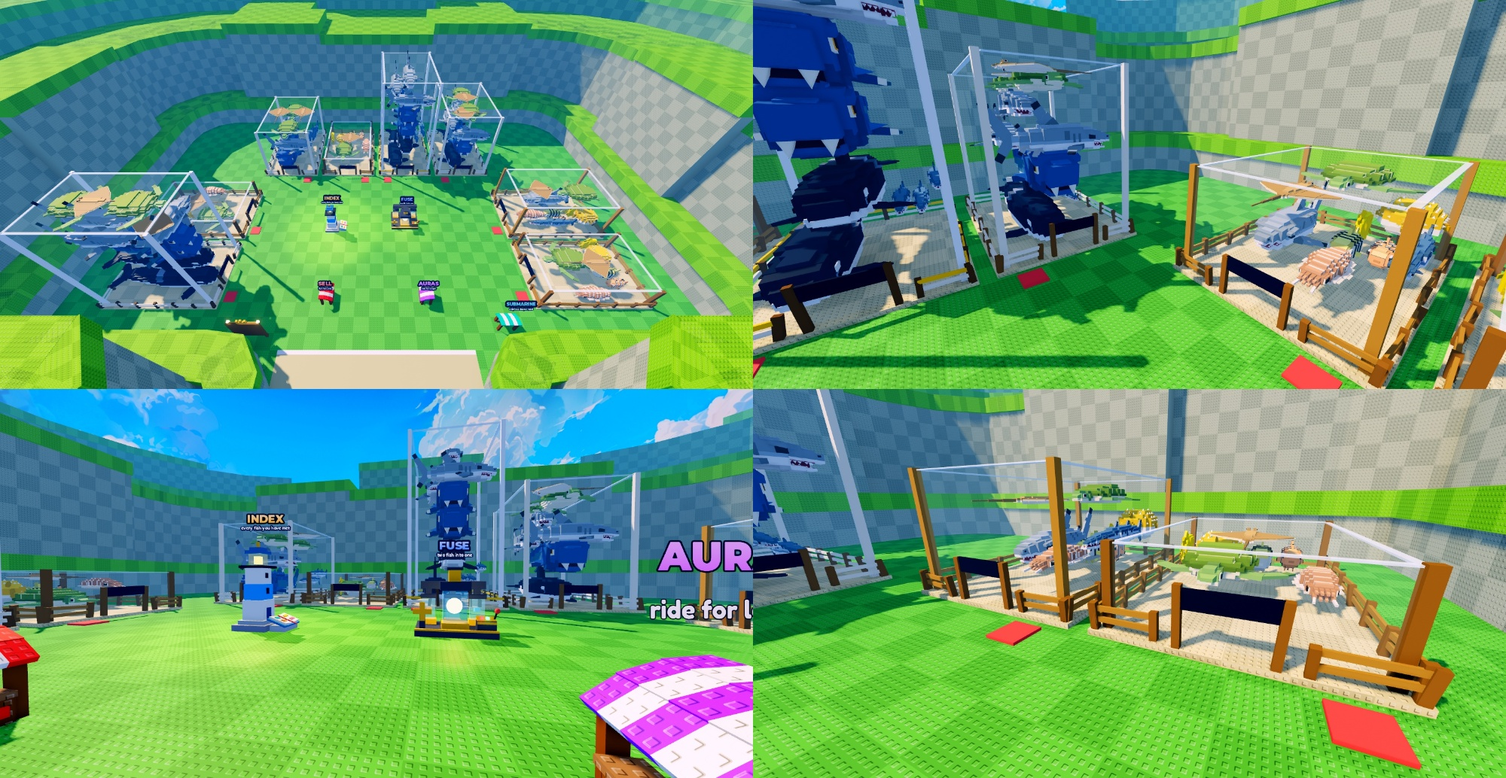
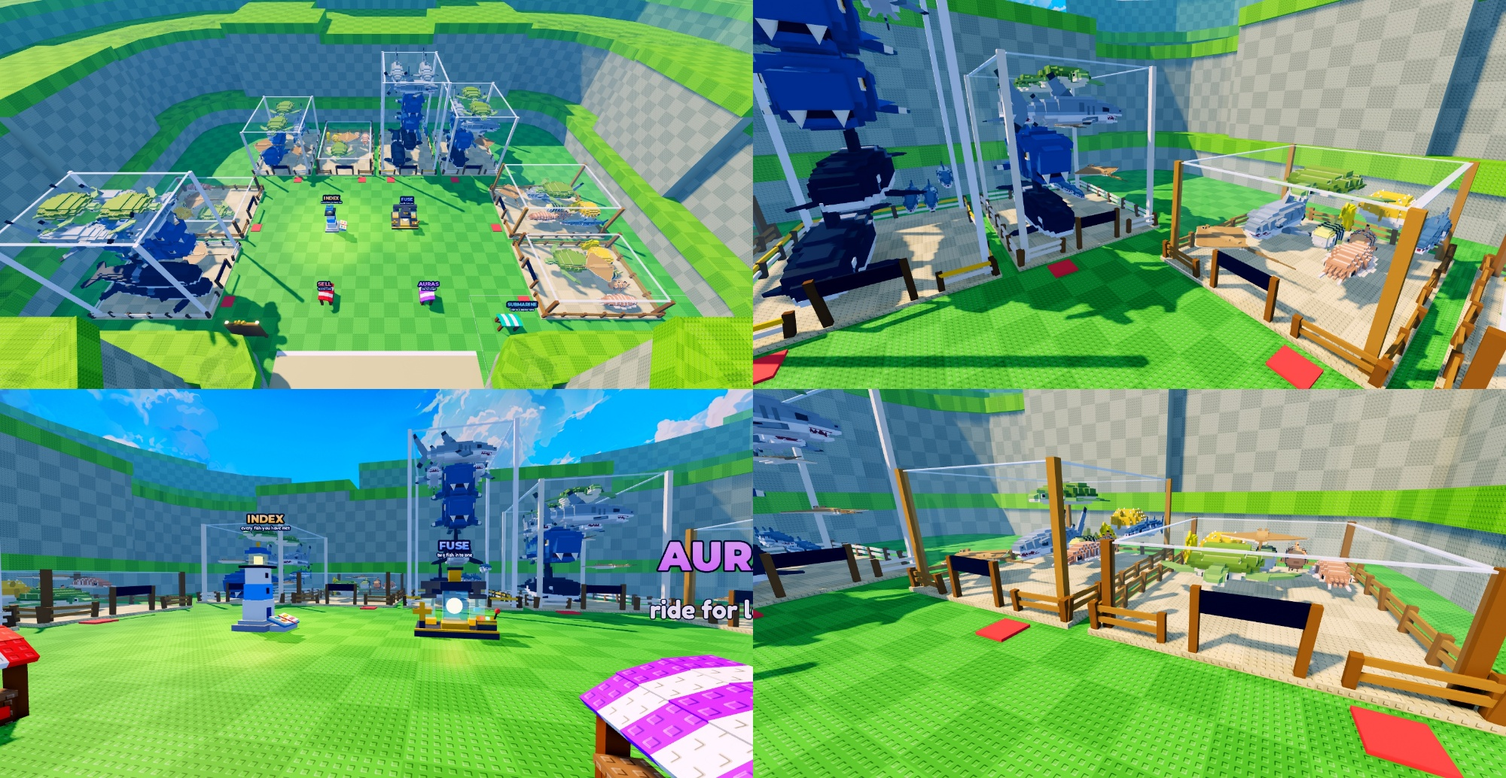
The hub try's pens are 47 wide (the user's pick); reloaded in Studio, not saved

diff --git a/tools/map/hub_scale_plan.py b/tools/map/hub_scale_plan.py
@@ -2,7 +2,7 @@
 wrong, whether it's in the actual scale of the hub or the texture, or it's just the walk speed"). Three plans:
 ours as it stands (read from the place: art/map/hub_study/dump_2026-11-22.csv), the reference's (measured from our
 frames: docs/reference/ride-a-dino-map.md, "The hub, measured", good to about 15%), and S, ours at the reference's
-own size (the open floor 174 by 130; theirs is about 174 by 126) with eight pens (42 by 62 plate to plate, a little apart, in a U), checked: see
+own size (the open floor 174 by 130; theirs is about 174 by 126) with eight pens (47 by 62 plate to plate, a little apart, in a U), checked: see
 check() and tools/map/hub_s.py (the walls). Schematic: walls as a line, pens as boxes.
 
 usage: python tools/map/hub_scale_plan.py [out.png]"""
@@ -135,7 +135,7 @@ def check(name, hub, strip, pens, things, gates):
 # a far one, and the pens stand apart, each with its own fence, 2.3 to 3.2 of grass between (full 21 s, run 39 s)
 SZ = -10.0
 SIDE, BEHIND = 87, (25, 21)
-PW, APART = 40, 6  # a pen's plate and posts stand 1 outside its box: 42 wide and 4 of grass between, as seen
+PW, APART = 45, 6  # plate and posts stand 1 outside the box: 47 wide (the user's pick, 2026-11-23; theirs 41) and 4 of grass between
 HALF, BACK = SIDE + 60 + BEHIND[0], -(222 + BEHIND[1] + 1)
 STEP = PW + APART
 BACK_AT, SIDE_AT = [-1.5 * STEP, -0.5 * STEP, 0.5 * STEP, 1.5 * STEP], [-96 - STEP / 2, -96 + STEP / 2]  # the pens' middles
@@ -155,7 +155,7 @@ s_things += [(x - math.copysign(14, x), -146 + SZ, PAD_SIZE, PAD_SIZE, "", PAD) 
 s_things += [(x, z + 14, PAD_SIZE, PAD_SIZE, "", PAD) for x in (-SIDE + 6, SIDE - 6) for z in SIDE_AT]
 S_TRY = {"HUB_HALF": HALF, "HUB_BACK": BACK, "CORNER": 32, "FRONT_TURN": 8, "GATE_TURN": 17}
 assert not check("S", (-HALF, HALF, BACK, 0), (-48, 48, -32, 0), s_pens, s_things, s_gates)
-r = panel(f"S (a sketch): {2 * HALF} x {-32 - BACK}, eight pens 42 x 62",
+r = panel(f"S (a sketch): {2 * HALF} x {-32 - BACK}, eight pens 47 x 62",
           "back gates to the strip 130 (4.6 s at 28) | the open floor and the stalls where theirs are",
           (-HALF, HALF, BACK, 0), s_pens, (-48, 48, -32, 0), (0, -88), [((-23, -162), (-23, -32), "130")],
           (-SIDE, SIDE, -162, -32), things=s_things)

diff --git a/docs/design/hub-review-2.md b/docs/design/hub-review-2.md
@@ -167,19 +167,21 @@ To confirm with the game-code chat before any of it goes in; as far as the map c
 The user's three corrections, each right and each a misreading of mine:
 - **The second drawing had no grass behind the pens** ("it doesnt have any space between aquariums and the walls behind"):
   3 studs. Theirs, from above a back pen (full 12 s, `ground.py`): the wall 7 to 12 behind the back pens, 19 to 26 behind the
-  side ones, and beside the last back pen an open corner 65 to 86 wide, the most of it. Ours: 21, 25, and corners 83 wide. (Their back wall is rough: one frame, and that it is a back pen is read, not proved.)
+  side ones, and beside the last back pen an open corner 65 to 86 wide, the most of it. Ours: 21, 25, and corners 71 wide. (Their back wall is rough: one frame, and that it is a back pen is read, not proved.)
   The back one is more than theirs because a tank hides what is behind it and a fence does not.
 - **The pens touched, and were too wide** ("theres space between the pens, they might be slightly to wide"). Theirs, from the
   frames under 25 studs away: 41 wide (gate 11, a 14.5 fence each side), and 2.3 to 3.2 of grass between, each pen with its
-  own fence. The 50 was read off a pen 70 studs away. Ours: 42 x 62 over the plate (40 x 60 inside it), 4 of grass between plates.
+  own fence. The 50 was read off a pen 70 studs away. Ours: 47 x 62 over the plate (45 x 60 inside it), 4 of grass between plates.
 - **The first drawing's side pens stood 65 from the middle** ("the placement of the aquariums looks like the hub too small"):
   theirs stand 85 to 92, as ours since (87).
 
 Theirs is then about **350 x 195** wall to wall (good to 15%; the walls rough, and how many pens they have is drawn). Back gates
-to the strip 130 to 132 (4.6 s at 28; ours now 180), side gates 95 and 57. Checked by `hub_scale_plan.py` (nothing overlaps, 8
-clear studs before each gate) and `hub_s.py` (clears all 324 wall pieces). Loaded in Studio at x 14000, not saved. **What the
-narrower pen costs:** the tank inside is 36.8 wide, not 46.8, so fish lie closer (at stage 5 six layers need 118 of
-height, where 46.8 needed 92 and the water is 73) and the manta joins the Archelon as too wide for the floor (they swim, and tails pass through the glass). Open: 42, or a width in between (the corners leave room); "Pens that grow" above was worked out at 50 wide. Every gate's
+to the strip 130 to 133 (4.6 s at 28; ours now 180), side gates 98 and 55. Checked by `hub_scale_plan.py` (nothing overlaps, 8
+clear studs before each gate) and `hub_s.py` (clears all 324 wall pieces). Loaded in Studio at x 14000, not saved. **The pens
+are 47 wide: the user's pick** ("In between, 47"), between their 41 and the 50 before. The tank inside is 41.8 wide, so at
+stage 5 the fish need 101 of height to lie with none touching (92 at the 46.8 it was drawn at, 118 at 42 wide; the water is
+73), and the manta joins the Archelon as too wide for the floor (they swim, and tails pass through the glass); "Pens that
+grow" above was worked out at 50 wide. Every gate's
 sign board and the floor's studs are still ours, and where side pens stand along the wall is a middle way: one frame puts them
 nearer the strip, one nearer the back pens.
 

diff --git a/docs/Decisions.md b/docs/Decisions.md
@@ -5,6 +5,7 @@ written down.
 
 | Date | Decision | Detail |
 |---|---|---|
+| 2026-11-23 | **The hub try's pens are 47 wide, standing apart with grass behind them** ("In between, 47"): between the reference's 41, measured, and the 50 drawn before, because a tank needs more room than a fenced pen. The user's corrections of the same day: "it doesnt have any space between aquariums and the walls behind", "theres space between the pens, they might be slightly to wide" ([hub-review-2](design/hub-review-2.md), section 3). Only the try in Studio; the live hub is unchanged |
 | 2026-11-23 | **The pens grow taller, much taller, with upgrades, and merge the fence with the aquarium; S's hub-only try is wanted.** "I want the player to be able to upgrade their aquarium so it gets taller, like much taller, so it can house more fish and so it isn't as crowded", "merge these with like an aquarium style and the fence style": the user. This replaces the map chat's "richer rather than taller". **Style picked: E, the slim tank standing in the low fence, with no rim on top:** "lets go for E but without the barrier on the top, similar to to the top of C. E progression with the lacking geomtry on the top of C" (the user, 2026-11-23). Heights, trim colours and the size not picked; not in the live hub | [hub-review-2](design/hub-review-2.md), "Pens that grow" |
 | 2026-11-22 | **The game is being sold as it is now; the code is tidied for the buyer's team without changing play.** "they are paying for the game as it is now. they will probably polish a few things. tidy as such, just make sure you dont break anything": the user. So the handover plan's stages 0 to 2 and the package, not saving or purchases. The safe tidy batch was done the same day (dead code, the stray `--help/` folder, comments, guards in both `Main`); played in Studio the same evening (boots clean, a dive and two checks pass) | [Handing the game over](plans/sale-readiness.md), [what to sort in the code](reviews/code-organisation.md) |
 | 2026-11-22 | **The reference's layout may be copied; never its look or models.** "didnt mean to say never its layout": the user, asked whether "as close to one-to-one" for the hub went against the rule "copy the loop and the feel, never its look, models or layout". So the hub can follow Ride a Dino's sizes and its U of pens one to one, with our own models and look. The rule is reworded in CLAUDE.md and the notes that repeated it | [Hub review 2](design/hub-review-2.md), section 3 |

diff --git a/docs/Sessions.md b/docs/Sessions.md
@@ -50,10 +50,10 @@ The links open the chat in the Claude app on the PC it runs on.
   yes) and a plan for handing the game to another team.
 - **2026-11-22, Ride a Fish map to the game-code chat: hub review 2, a study, nothing in the place or `src/` changed.**
   [hub-review-2](design/hub-review-2.md) proposes open pens (a low wobbly fence round a plate) in place of the glass
-  tanks, and a smaller hub (S, now 344 x 212 with the grass behind the pens, pens 42 x 62, the reference's about 350 x 195 measured again; R is dropped). Nothing to do until the user picks; then these are yours to confirm: the pens
+  tanks, and a smaller hub (S, now 344 x 212 with the grass behind the pens, pens 47 x 62, the reference's about 350 x 195 measured again; R is dropped). Nothing to do until the user picks; then these are yours to confirm: the pens
   as drawn have no `SignBoard`, `TrainerSpot`, `TankSurface` or rims (`AquariumService` `LIFTED`); `TankWater` could stay
   as an unseen swim box; fence posts are named `FencePost` so `STRETCHED` leaves them; at `ShowShare` 1 (Hugo's b4,
-  kept) the Shallows' seven fit a 50 x 60 pen (the try's are now 42 x 62, not settled), bigger fish go over the fence; they would sit low, not lap in a heap. Also
+  kept) the Shallows' seven fit a 50 x 60 pen (the try's are now 47 x 62, the user's pick), bigger fish go over the fence; they would sit low, not lap in a heap. Also
   `tools/studio/water_see_buttons.luau` (water see-through live in Play) waits for Studio.
   **2026-11-23:** the user wants the pens to grow much taller. [hub-review-2](design/hub-review-2.md), "Pens that grow", lists
   what that needs. **Picked: E without its rim** (slim tank in the low fence, four posts, the edge line as `TankSurface`), so: a
